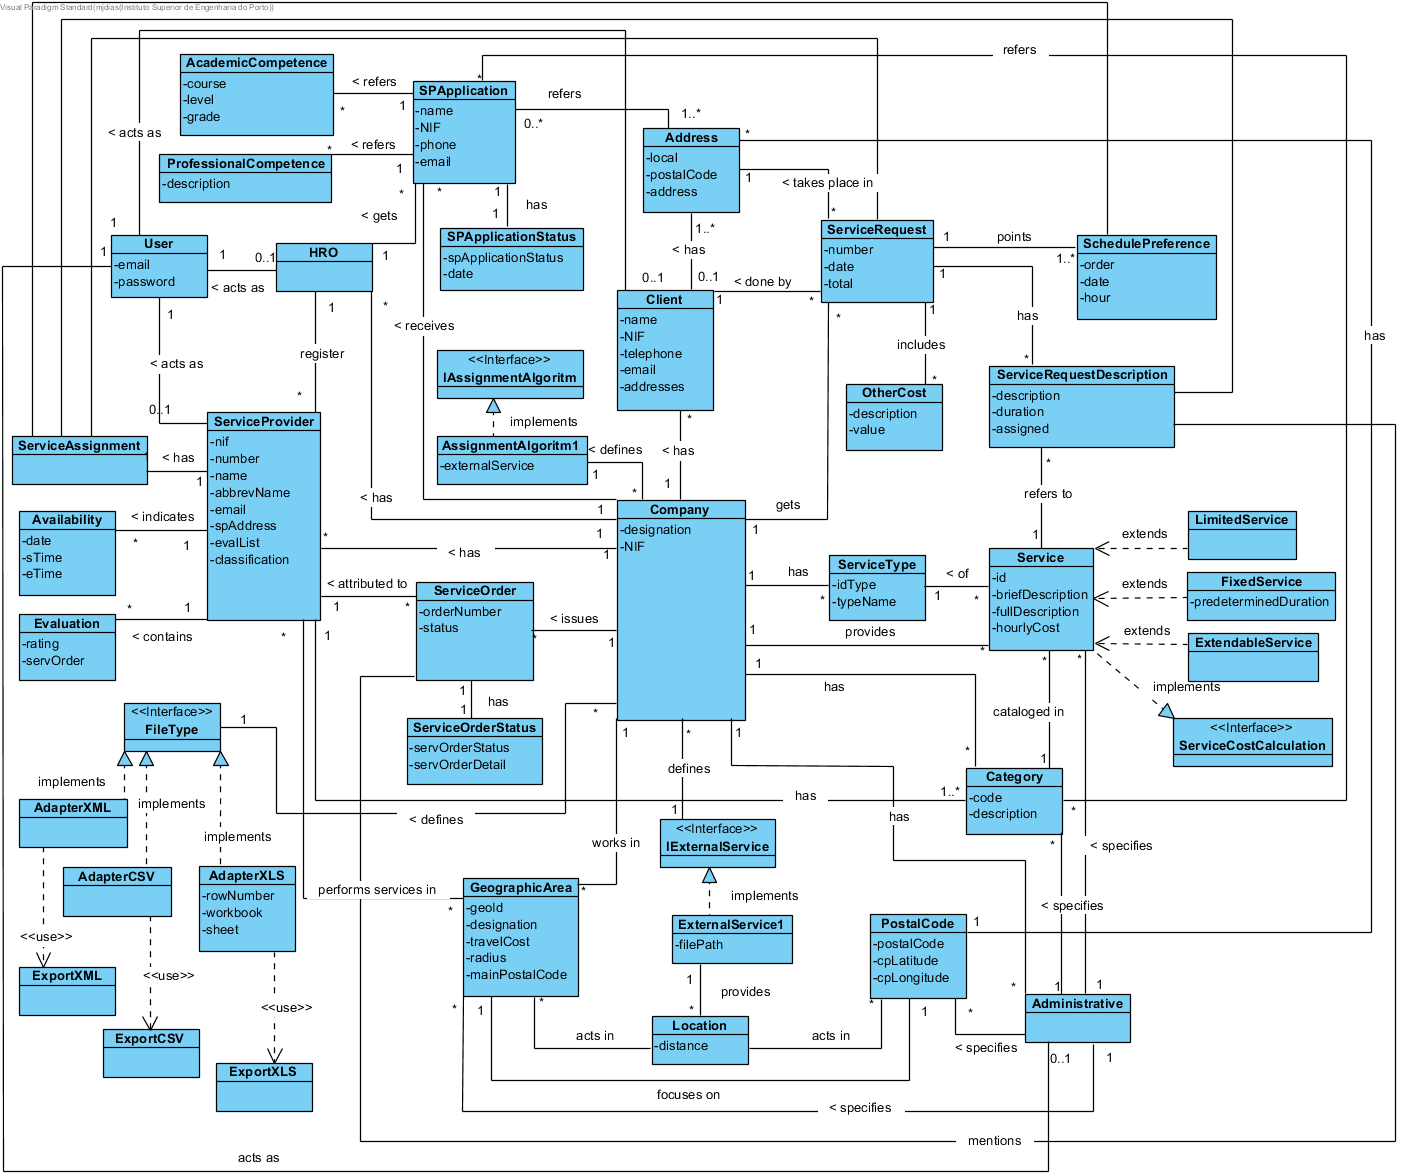
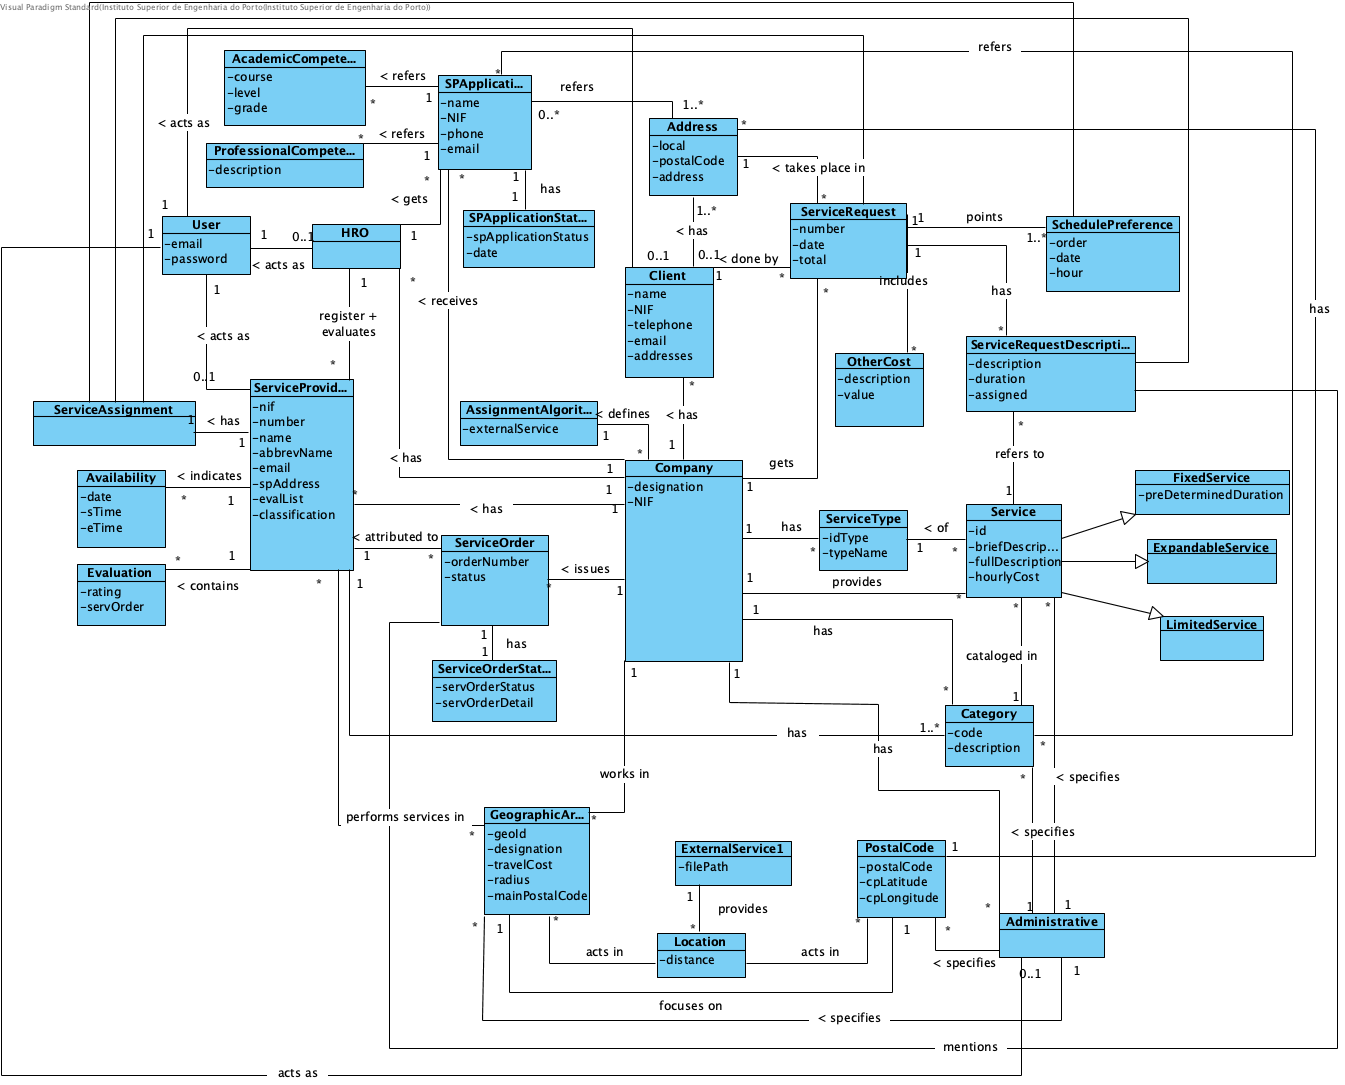
OO Analysis

diff --git a/OOAnalysis.md b/OOAnalysis.md
@@ -1,70 +1,67 @@
-# Análise OO #
-O processo de construção do modelo de domínio é baseado nos casos de uso, em especial os substantivos utilizados, e na descrição do enunciado.
-## Racional para identificação de classes de domínio ##
-Para a identificação de classes de domínio usa-se a lista de categorias das aulas TP (sugeridas no livro). Como resultado temos a seguinte tabela de conceitos (ou classes, mas não de software) por categoria.
+# OO Analysis #
 
-### _Lista de Categorias_ ###
+### _Category List_ ###
 
-**Transações (do negócio)**
+**Business Transactions**
 
-* Pedido Prestação Serviço;
-* Candidatura
+* Request Service;
+* Application
 
 ---
 
-**Linhas de transações**
+**Lines of transactions**
 
-* Preferência Horário
-* Descrição Serviço Pedido
-* Outro Custo Adicional
+* Preference Time
+* Service Request Description
+* Other additional cost
 
 ---
 
-**Produtos ou serviços relacionados com transações**
+**Products or services related to transactions**
 
-*  Serviço
-*  Serviço Fixo
-*  Serviço Limitado
-*  Serviço Expansível
+* Service
+* Fixed Service
+* Limited Service
+* Expandable Service
 
 ---
 
 
-**Registos (de transações)**
+**Records (of transactions)**
 
 *  
 
 ---  
 
 
-**Papéis das pessoas**
+** Roles of people **
 
-* Administrativo
-* Funcionário Recursos Humanos (FRH)
-* Cliente
-* Prestador de Serviços
-* Utilizador
-* Utilizador Não Registado
-
----
-
-
-**Lugares**
-
-*  Área Geográfica
-*  Endereço Postal
-* Código Postal
+* Administrative
+* Human Resources (HRO)
+* Client
+* Service provider
+* User
+* Unregistered User
 
 ---
 
-**Eventos**
+
+**Places**
+
+* Geographical area
+* Address
+* Postal Code
+
+---
+
+**Events**
 
 *
 
 ---
 
 
-**Objectos físicos**
+**Physical objects**
 
 *
 
@@ -72,152 +69,141 @@ Para a identificação de classes de domínio usa-se a lista de categorias das a
 ---
 
 
-**Especificações e descrições**
+**Specifications and descriptions**
 
-*  (Especificar) Categoria (de Serviço)
-*  (Especificar) Serviço
-*  Habilitação Académica
-*  Habilitação Profissional
-* Disponibilidade
-*  Tipo de Serviço
-* Estado de Candidatura
-* OrdemServico
+* (Specify) Category
+* (Specify) Service
+* Academic Qualification
+* Professional Qualification
+* Availability
+* Type of service
+* Application Status
+* Service Order
 
 ---
 
 
-**Catálogos**
+**Catalogs**
 
 *  
 
 ---
 
 
-**Conjuntos**
+**Sets**
 
 *
 
 ---
 
 
-**Elementos de Conjuntos**
+**Sets elements**
 
 *  
 
 ---
 
 
-**Organizações**
+**Organizations**
 
-*  Empresa
-
----
-
-**Outros sistemas (externos)**
-
-*  (Componente Gestão Utilizadores)
-*  Servico Externo
+*  Company
 
 ---
 
+**Other systems (external)**
 
-**Registos (financeiros), de trabalho, contractos, documentos legais**
+* (User Management Component)
+* External Service
+
+---
+
+
+**(Financial) records, work, contracts, legal documents**
 
 *
 
 ---
 
 
-**Instrumentos financeiros**
+**Financial instruments**
 
 *  
 
 ---
 
 
-**Documentos referidos/para executar as tarefas/**
+**Referred documents / to perform the tasks**
 
-* Documento Comprovativo   
+* Proof Document  
 
 ---
 
 
 
-###**Racional sobre identificação de associações entre classes**###
+###**Racional sobre identificação de associações entre classes**
 
-Uma associação é uma relação entre instâncias de objectos que indica uma conexão relevante e que vale a pena recordar, ou é derivável da Lista de Associações Comuns:
-
-+ A é fisicamente (ou logicamente) parte de B
-+ A está fisicamente (ou logicamente) contido em B
-+ A é uma descrição de B
-+ A é conhecido/capturado/registado por B
-+ A usa ou gere B
-+ A está relacionado com uma transacção de B + etc.
-
-
-
-| Conceito (A) 		|  Associação   		|  Concept (B) |
+| Concept (A) 		|  Association   		|  Concept (B) |
 |----------	   		|:-------------:		|------:       |
-| Administrativo  	| especifica     	| Categoria  |
-|   					| especifica     	| Serviço  |
-|   					| especifica     	| Área Geográfica  |
-|   					| trabalha para     | Empresa  |
-|						| atua como			| Utilizador |
-| Empresa				| presta     			| Serviço  |
-|						| tem     			| Categoria  |
-|						| atua em    			| Área Geográfica  |
-| 						| possui     			| Cliente  |
-| 						| possui     			| Administrativo  |
-| 						| possui     			| FRH  |
-| 						| possui     			| Prestador de Serviços  |
-| 						| recebe     			| Pedido de Prestação de Serviços  |
-| 						| recebe     			| Candidatura a Prestador de Serviços   |
-| 						|define		| Serviço Externo    |
-| 						|tem (vários)	| Tipo de Serviço    |
-|             |emite        | Ordem de Serviço   |
-| Serviço				| catalogado em     | Categoria  |
-|						| é solicitado em	| Pedido de Prestação de Serviços |
-|						| referido em			| Descrição Serviço Pedido |
-|						| é de (um)		| Tipo Serviço  |
-| Serviço Fixo	| é uma especialização     | Serviço  |
-| Serviço Limitado	| é uma especialização  | Serviço  |
-| Serviço Expansível	| é uma especialização  | Serviço  |
-| Cliente				| possui     			| Endereço Postal  |
-|						| atua como			| Utilizador |
-|						| realiza				| Pedido de Prestação de Serviços |
-| Categoria			| cataloga    		| Serviço  |
-|						| mencionada em     | Candidatura a Prestador de Serviços  |
-|						| mencionada em     | Prestador de Serviços  |
-| Prestador de Serviços| atua como		| Utilizador |
-|  						| indica (várias)| Disponibilidade |
-|  						| realiza serviços em (várias)| Área Geográfica |
-|  						| realiza serviços catalogados em (várias)| Categoria |
-| FRH					| atua como		| Utilizador |
-| Candidatura a Prestador de Serviços |  menciona | Endereço Postal
-| 						|  menciona 		| Habilitação Académica
-| 						|  menciona 		| Habilitação Profissional
-| 						|  menciona 		| Categoria de Serviço
-| 						|  tem anexado 	| Documento Comprovativo
-|             |  tem          | Estado de Candidatura
-| Pedido de Prestação de Serviços 	| é feito por | Cliente |
-| 					   | inclui 			| Outro Custo Adicional |
-| 					   | indica 			| Preferência Horário |
-| 					   | possui 			| Descrição Serviço Pedido |
-|						| para realizar-se em| Endereço Postal |
-| Descrição Serviço Pedido	 | consta	| Pedido de Prestação de Serviços |
-| 								 | referente |  Serviço |
-| Area Geográfica	 | centra-se em	| Codigo Postal|
-|  						 | recorre a		| Serviço Externo|
-|  						 | atua em (vários)| Codigo Postal|
-| Serviço Externo | informa/disponibiliza|(Distância+CódigoPostal)|
-| Endereço Postal	 | tem (um)		| Codigo Postal|
-| Ordem de Serviço | atribuída a | Prestador de Serviço
-|                  | referente a | Pedido de Prestação de Servico |
-
-
-**Nota:** Os serviços externos disponibilizam a distância para códigos postais. Cada par de informação Distância+CódigoPostal é usado para estabelecer a associação "atua em" entre AreaGeografica e CódigoPostal.
-
+| Administrative | specifies | Category |
+| | specifies | Services |
+| | specifies | Geographic Area |
+| | works for | Company |
+| | acts as | User |
+| Company | provides | Services |
+| | has | Category |
+| | acts in | Geographic Area |
+| | has | Customer |
+| | has | Administrative |
+| | has | FRH |
+| | has | Service Provider |
+| | receive | Request for Provision of Services |
+| | receive | Application to Service Provider |
+| | define | External Service |
+| | have (several) | Type of Service |
+|| emits | Service Order |
+|| has | Assignment algorithm |
+| Service | cataloged in | Category |
+| | is requested in | Service Request |
+| | referred to in | Service Request Description |
+| | is of (one) | Type of Service |
+| Fixed Service | is a specialization of | Service |
+| | has | Pre-determined duration |
+| Service Limited | is a specialization of | Service |
+| Expandable Service | is a specialization of | Service |
+| Customer | has | Postal Address |
+| | acts as | User |
+| | realizes | Service Requests |
+| Category | catalogs | Service |
+| | mentioned in | Application to Service Provider |
+| | mentioned in | Service Provider |
+| Service Provider | acts as | User |
+| | indicates (several) | Services |
+| | performs services in (several) | Geographic Area |
+| | performs cataloged services in (several) | Category |
+| FRH | acts as | User |
+| | registers | Service Providers |
+| | evaluates | Service Providers |
+| Application to Service Provider | mentions | Postal code
+| | mentions | Academic Qualification
+| | mentions | Professional Qualification
+| | mentions | Category of Service
+| | has attached | Proof Document
+| | has | Application Status
+| Service Request | is made by | Customer |
+| | includes | Other Additional Cost |
+| | indicates | Preferred Time |
+| | has | Service Request Description |
+| | to be held in | Postal Address |
+| Service Request Description | it | Request for Provision of Services |
+| | reference | Service |
+| Geographic Area | focuses on | Post Code |
+| | resorts to | External Service |
+| | acts in (several) | Post Code |
+| External Service | provides | (Distance + Postal Code) |
+| Postal Address | has (a) | Postal Code |
+| Service Order | attributed to | Service provider
+| | relating to | Request for Service |
 
 ## Modelo de Domínio
 
-![MD_IT3.png](MD_IT3.png)
+![DomainModel.png](DomainModel.png)

diff --git a/SupplementarySpecifications.md b/SupplementarySpecifications.md
@@ -3,9 +3,9 @@
 ## Functionalities
 
 -  **Safety:**
-     * User interactions (ie Client, Service Provider, Administrative, Human Resource Employee) must be preceded by an authentication process.
-     * Exceptionally some well defined features are accessible without authentication ("The use of the application by other people is restricted ...").
-     * All application information will have to be stored securely.
+* User interactions (ie Client, Service Provider, Administrative, Human Resource Employee) must be preceded by an authentication process.
+* Exceptionally some well defined features are accessible without authentication ("The use of the application by other people is restricted ...").
+* All application information will have to be stored securely.
 - Notification of users by email as needed.
 
 ## Usability
